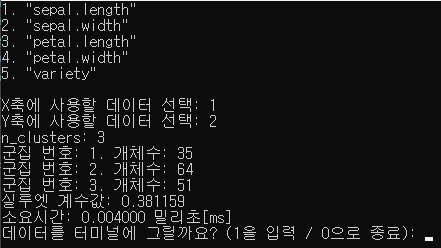
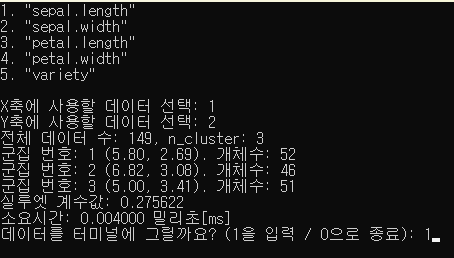
change README.md

Changed region(s): [[0.0, 0.3669, 1.0, 0.9879], [0.0, 0.0, 1.0, 0.3387], [0.619, 0.5645, 0.6485, 0.7621]]

diff --git a/Main.c b/Main.c
@@ -33,7 +33,7 @@ int main(const int argc, const char* argv[])
 	int temp = 0;								// 중심점(centroid) 갯수
 	clock_t start, end;							// 소요시간 계산
 
-	//srand((unsigned int)time(NULL));			// seed값 고정
+	srand((unsigned int)time(NULL));			// seed값 고정
 
 	if (fopen_s(&csvOpen, argv[1], "r") != NULL)
 	{
@@ -73,7 +73,7 @@ int main(const int argc, const char* argv[])
 		centroid[n_clusters - 1].y = data[index].y;
 	}
 
-	printf("n_cluster: %d\n", n_clusters);
+	printf("전체 데이터 수: %d, n_cluster: %d\n", data_max_index, n_clusters);
 	// Centroid의 위치가 전 위치에 동일될 때까지 반복
 	while (1) {
 		centroid_before = centroid_copy(centroid, n_clusters);

diff --git a/README.md b/README.md
@@ -1,11 +1,11 @@
-# C언어로 기본 K-means 알고리즘 구현
+# C언어로 K-means++ 알고리즘 구현
 
 #### 1. 구현 순서
 - CSV 파일을 데이터로 받아오기
-- 입력 받은 n_cluster의 수 따라 무작위 데이터들 중 n개를 Centroid로 설정
-- 클러스터링을 하여 유크리드 거리 계산으로 Centroid의 위치를 이동
-- Centroid의 위치가 이동하기 전과 동일할 때까지 클러스터링
-- kmeans 평가 중의 하나인 실루엣 분석을 구현
+- K-MEANS++알고리즘에 따라 직접 K개의 Centroid로 설정 (CUDA)
+- 클러스터링을 하여 유크리드 거리 계산으로 Centroid의 위치를 이동 (CUDA)
+- Centroid의 위치가 이동하기 전과 동일할 때까지 클러스터링 
+- kmeans 평가 중의 하나인 실루엣 분석을 구현 (CUDA)
 - 결과를 출력
 #### 2. 실행 방법
 ```
@@ -13,5 +13,44 @@
 ```
 
 #### 3. 실행 결과
+##### 결과 1 (iris.csv)
 ![실행 결과](실행_결과.png)
 ![실행 결과 2](실행_결과_2.png)
+##### 결과 2 (spotify-2023.csv)
+![실행 결과 3](실행_결과_3.png)
+
+#### 4. 쿠다 사용 전과 후 비교
+<table style="text-align:center">
+    <tr>
+        <th rowspan="2">데이터 셋</th>
+        <th rowspan="2">데이터 양</th>
+        <th>사용 전</th>
+        <th>사용 후</th>
+    </tr>
+    <tr>
+        <th colspan="2">소요 시간 (밀리초)</th>
+    </tr>
+    <tr> 
+        <th> iris.csv </th>
+        <td> 149 </td>
+        <td> 0.004000 </td>
+        <td>  </td>
+    </tr>
+    <tr>
+        <th> spotify-2023.csv </th>
+        <td> 944 </td>
+        <td> 0.057000 </td>
+        <td>  </td>
+    </tr>
+    <tr>
+        <th> random_data.csv </th>
+        <td> 10000 </td>
+        <td> 6.106000 </td>
+        <td>  </td>
+    </tr>
+</table>
+
+|| 파일 크기 |
+|:---:|:---:|
+| CUDA 사용 전 | 91 KB |
+| CUDA 사용 후 | |
